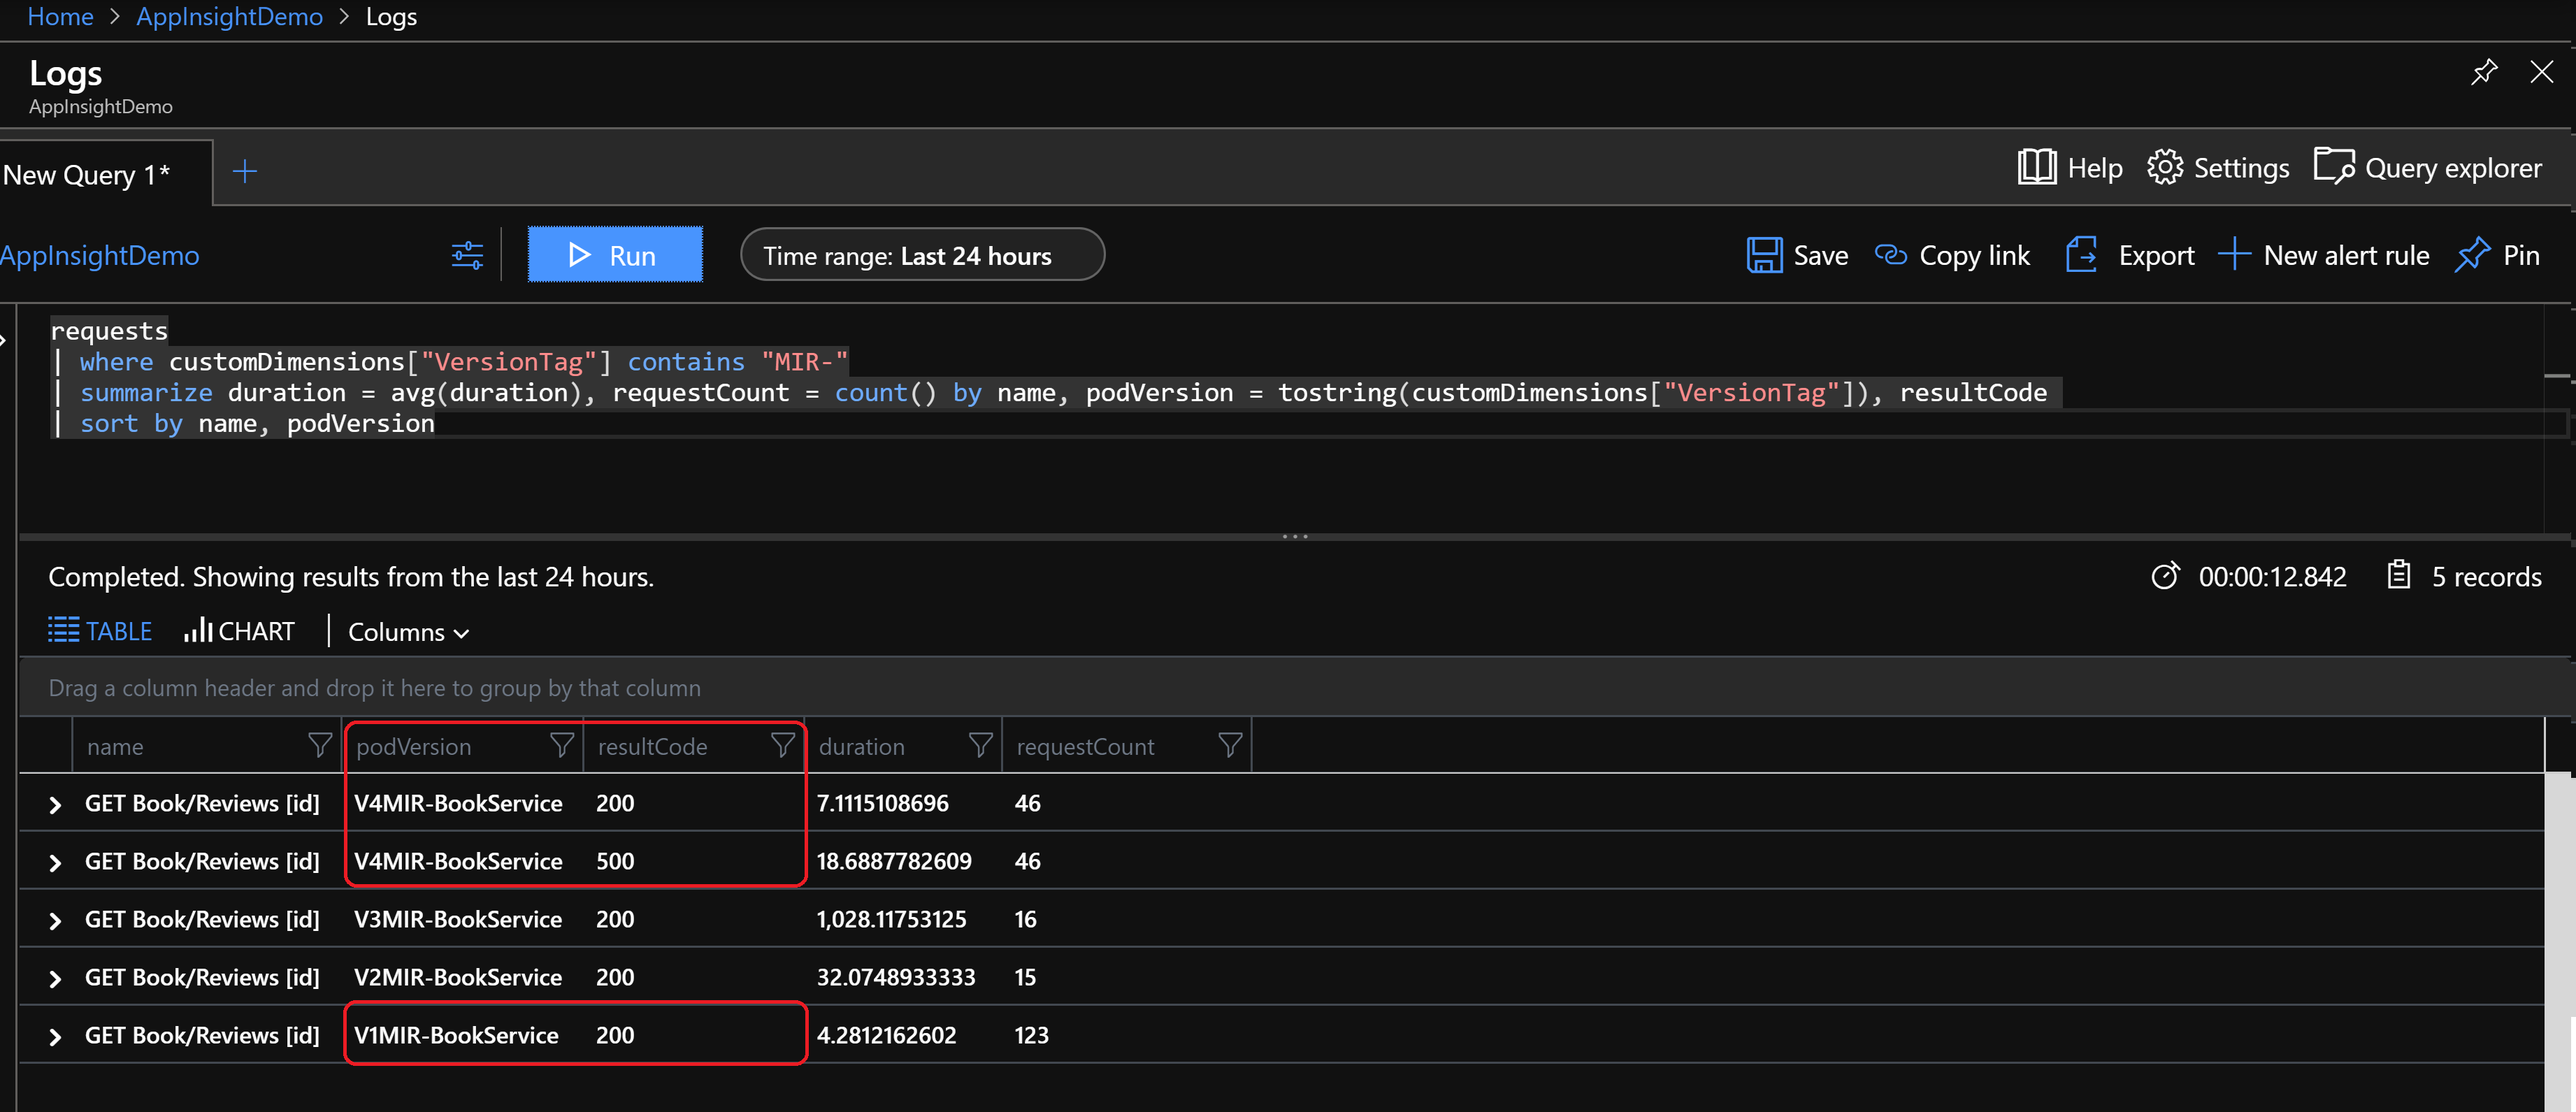
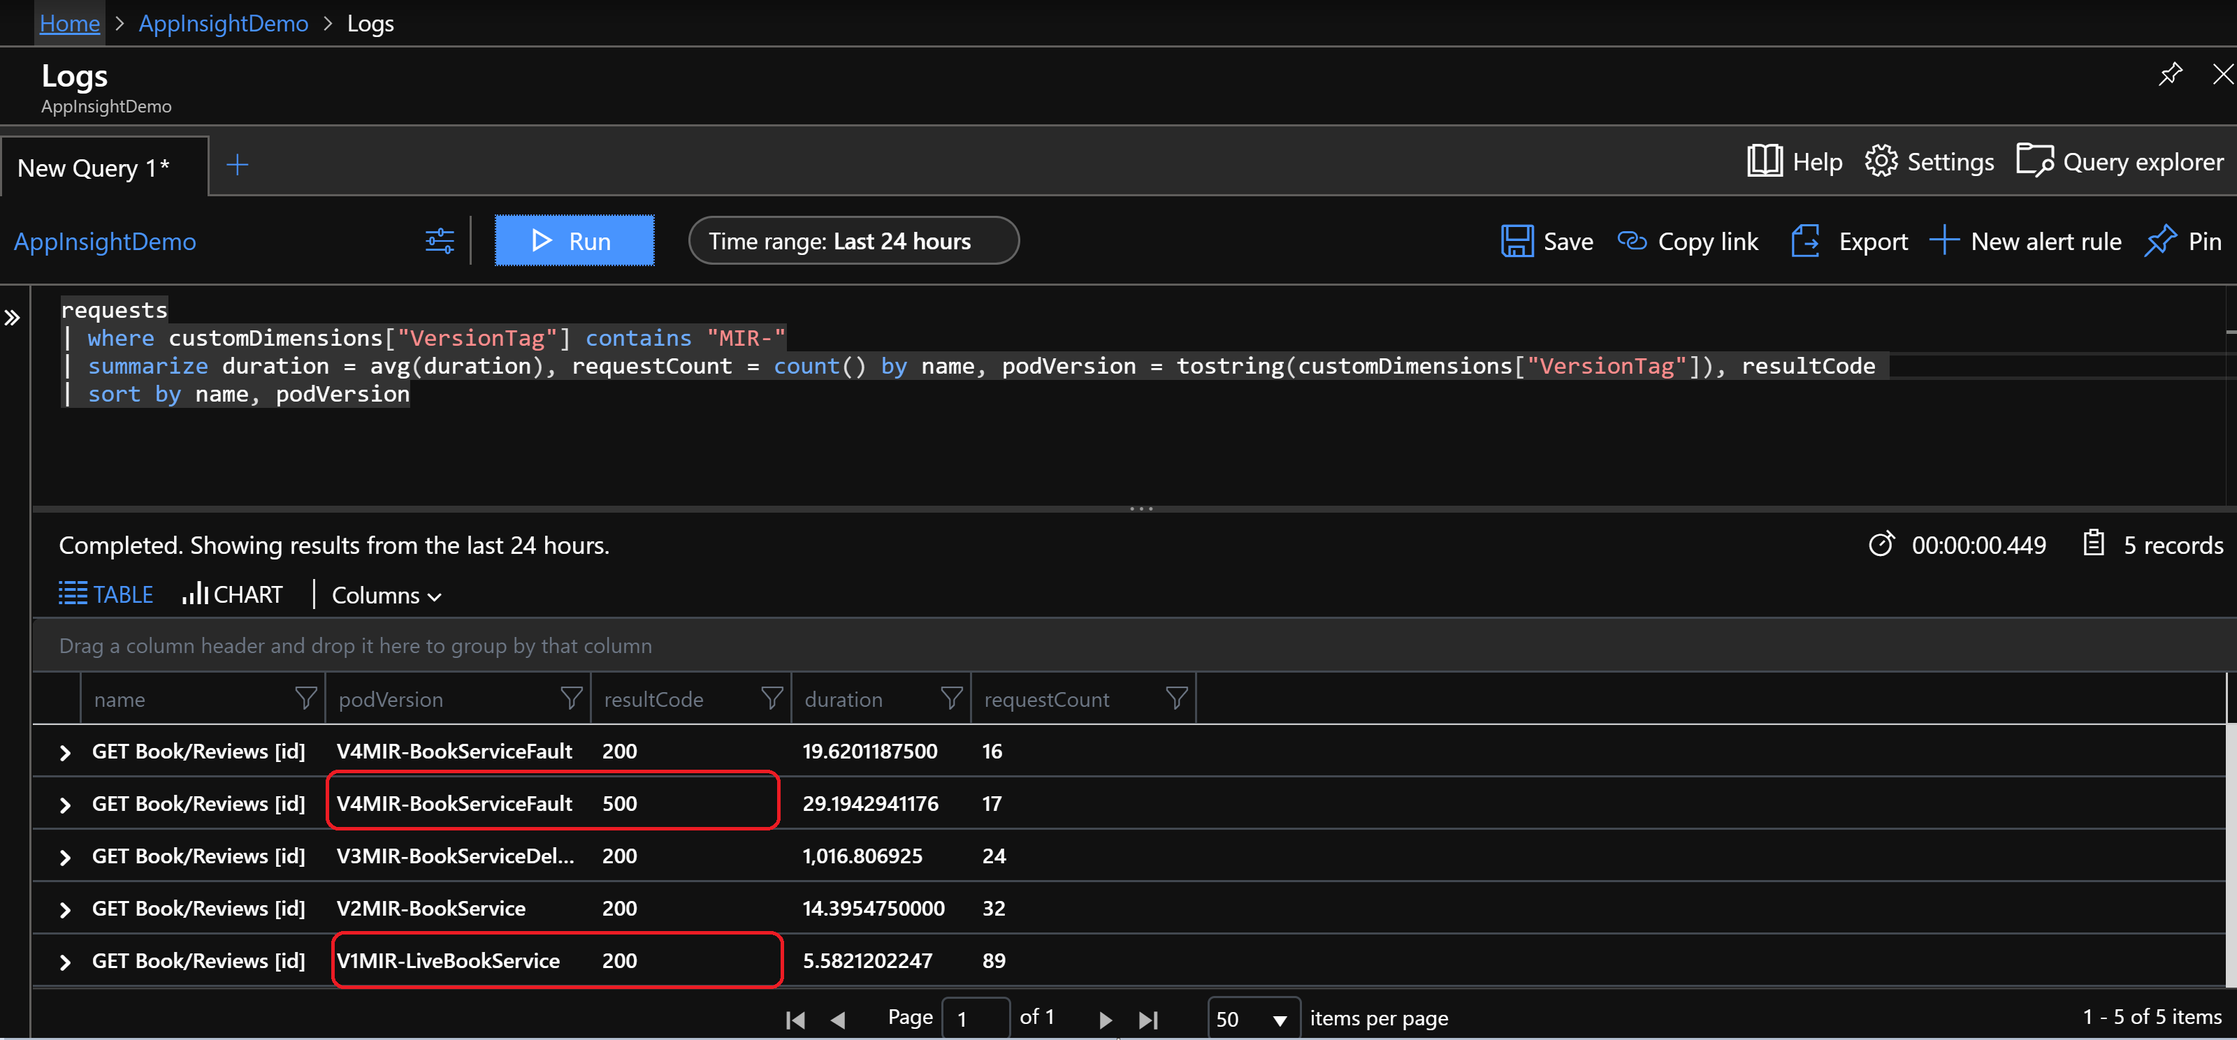
fixed images in lab5

diff --git a/Lab_Modules/05_TrafficMirroring/05_Traffic-Mirroring.md b/Lab_Modules/05_TrafficMirroring/05_Traffic-Mirroring.md
@@ -27,7 +27,7 @@ Open a command prompt or a powershell from the folder "_K8sConfigurations/mirror
    ![image.png](imgs/image-d02fbdc2-5510-4204-9809-706954155ed9.png)
 
 4. We are done with our first traffic mirroring! You can see from the query results above that, as we expected, result codes and duration are very close between mirrored and user facing service. 
-In order to achieve that, we tagged traffic coming from user facing service with the attribute "podVersion" = "**V1MIR-BookService**" and the traffic coming from mirrored service with the attribute "podVersion" = "**V2MIR-BookService**"
+In order to achieve that, we tagged traffic coming from user facing service with the attribute "podVersion" = "**V1MIR-LiveBookService**" and the traffic coming from mirrored service with the attribute "podVersion" = "**V2MIR-BookService**"
 _Please expect few differences in number between your query results and the above image_.
 
 5. How does it work?
@@ -60,7 +60,7 @@ You can find the mirror configuration in the file "_src\Sidecars\default-sidecar
    Then hit "Run" query and you should get something similar to the following image:
    ![image.png](imgs/image-b8616c82-b892-44a2-86ba-9df3e048b002.png)
 
-4. We have anticipated our first problem without impacting real users! You can see from Azure Log Analytics query results that the service with "**V3MIR-BookService**" tag has an average duration of 1,208 milliseconds, while the "**V1MIR-BookService**" (the version real users are seeing) still has an average requests duration of just 15 milliseconds meaning they are not impacted.
+4. We have anticipated our first problem without impacting real users! You can see from Azure Log Analytics query results that the service with "**V3MIR-BookServiceDelay**" tag has an average duration of 1,208 milliseconds, while the "**V1MIR-LiveBookService**" (the version real users are seeing) still has an average requests duration of just 15 milliseconds meaning they are not impacted.
 
 
 
@@ -84,7 +84,7 @@ You can find the mirror configuration in the file "_src\Sidecars\default-sidecar
 
    ![image.png](imgs/image-abf28799-a7e3-4031-b31d-fe60ef532bb8.png)
 
-4. We have prevented real users from experiencing a failure! You can see from log analytics query results that the service with "**V4MIR-BookService**" has several requests with a **500** status code, indicating a failure. Meanwhile, the user facing version of the service, "**V1MIR-BookService**", runs smoothly without incurring in any failure.
+4. We have prevented real users from experiencing a failure! You can see from log analytics query results that the service with "**V4MIR-BookServiceFault**" has several requests with a **500** status code, indicating a failure. Meanwhile, the user facing version of the service, "**V1MIR-LiveBookService**", runs smoothly without incurring in any failure.
     
 
 
